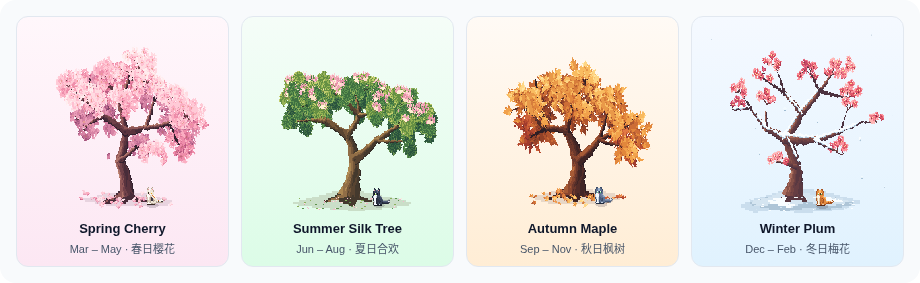
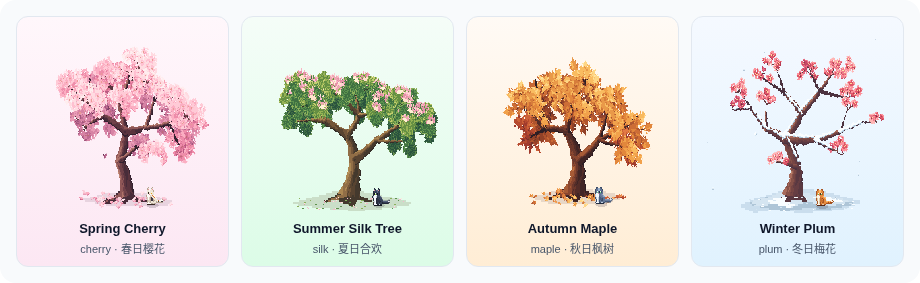
refactor: remove hemisphere-biased auto-season tree mode and default to maple

diff --git a/demo/main.js b/demo/main.js
@@ -2,7 +2,6 @@ import {
   CAT_BREEDS,
   mountCanopyCat,
   paintCatPreview,
-  resolveAutoTree,
   TREE_TYPES,
   WEATHER_PRESETS,
 } from '../src/index.js';
@@ -10,7 +9,7 @@ import {
 const state = {
   lang: navigator.language?.toLowerCase().startsWith('zh') ? 'zh' : 'en',
   theme: 'light',
-  tree: 'auto',
+  tree: 'maple',
   cat: 'auto',
   weather: 'breezy',
   size: 170,
@@ -78,10 +77,9 @@ const instance = mountCanopyCat('#stageMount', {
 });
 
 function buildEmbedCode() {
-  const attrs = [];
-  if (state.tree !== 'auto') attrs.push(`tree="${state.tree}"`);
-  else attrs.push('tree="auto"');
+  const attrs = [`tree="${state.tree}"`];
   if (state.cat !== 'auto') attrs.push(`cat="${state.cat}"`);
+  else attrs.push('cat="auto"');
   if (state.weather !== 'breezy') attrs.push(`weather="${state.weather}"`);
   if (state.size !== 150) attrs.push(`size="${state.size}"`);
   if (state.lang === 'zh') attrs.push('lang="zh"');
@@ -124,20 +122,17 @@ function renderUI() {
   document.getElementById('langBtn').textContent = state.lang === 'en' ? '中文' : 'English';
   document.getElementById('themeBtn').textContent = state.theme === 'light' ? '🌙 Dark' : '☀ Light';
 
-  const autoSeason = resolveAutoTree();
   const statusEl = document.getElementById('statusText');
-  const resolvedTreeKey = state.tree === 'auto' ? autoSeason : state.tree;
-  statusEl.textContent = `${TREE_TYPES[resolvedTreeKey][state.lang]} · ${WEATHER_PRESETS[state.weather].label[state.lang]}`;
+  statusEl.textContent = `${TREE_TYPES[state.tree][state.lang]} · ${WEATHER_PRESETS[state.weather].label[state.lang]}`;
 
   // Seasons
   const seasonGrid = document.getElementById('seasonGrid');
   seasonGrid.innerHTML = '';
   const seasonMeta = [
-    ['auto', '🗓', state.lang === 'zh' ? '自动' : 'Auto', TREE_TYPES[autoSeason][state.lang]],
-    ['cherry', '🌸', state.lang === 'zh' ? '春樱' : 'Cherry', state.lang === 'zh' ? '3–5月' : 'Spring'],
-    ['silk', '🌺', state.lang === 'zh' ? '夏合欢' : 'Silk', state.lang === 'zh' ? '6–8月' : 'Summer'],
-    ['maple', '🍁', state.lang === 'zh' ? '秋枫' : 'Maple', state.lang === 'zh' ? '9–11月' : 'Autumn'],
-    ['plum', '❄', state.lang === 'zh' ? '冬梅' : 'Plum', state.lang === 'zh' ? '12–2月' : 'Winter'],
+    ['cherry', '🌸', state.lang === 'zh' ? '春樱' : 'Cherry', state.lang === 'zh' ? '春' : 'Spring'],
+    ['silk', '🌺', state.lang === 'zh' ? '夏合欢' : 'Silk', state.lang === 'zh' ? '夏' : 'Summer'],
+    ['maple', '🍁', state.lang === 'zh' ? '秋枫' : 'Maple', state.lang === 'zh' ? '秋' : 'Autumn'],
+    ['plum', '❄', state.lang === 'zh' ? '冬梅' : 'Plum', state.lang === 'zh' ? '冬' : 'Winter'],
   ];
   for (const [key, icon, name, sub] of seasonMeta) {
     const btn = document.createElement('button');

diff --git a/src/core/presets.js b/src/core/presets.js
@@ -12,7 +12,6 @@ export const TREE_ARTWORKS = {
 };
 
 export const TREE_TYPES = {
-  auto: { en: 'Auto (by season)', zh: '随季节自动' },
   cherry: { en: 'Spring cherry', zh: '春日樱花' },
   silk: { en: 'Summer silk tree', zh: '夏日合欢' },
   maple: { en: 'Autumn maple', zh: '秋日枫树' },
@@ -89,23 +88,8 @@ export const RANGES = {
   speed: { min: 0, max: 100, initial: 34, step: 1 },
 };
 
-/**
- * Resolve the seasonal tree for a calendar date (Northern Hemisphere default):
- * Mar–May -> cherry, Jun–Aug -> silk, Sep–Nov -> maple, Dec–Feb -> plum.
- */
-export function resolveAutoTree(date = new Date()) {
-  const month = date.getMonth(); // 0..11
-  if (month >= 2 && month <= 4) return 'cherry';
-  if (month >= 5 && month <= 7) return 'silk';
-  if (month >= 8 && month <= 10) return 'maple';
-  return 'plum';
-}
-
-export function resolveTreeKey(tree = 'auto', date = new Date()) {
-  if (tree === 'auto' || !Object.hasOwn(TREE_STYLES, tree)) {
-    return resolveAutoTree(date);
-  }
-  return tree;
+export function resolveTreeKey(tree = 'maple') {
+  return Object.hasOwn(TREE_STYLES, tree) ? tree : 'maple';
 }
 
 export function normalizeOptions(input = {}) {
@@ -117,7 +101,7 @@ export function normalizeOptions(input = {}) {
     return Math.max(min, Math.min(max, Math.round(n / step) * step));
   };
   return {
-    tree: Object.hasOwn(TREE_TYPES, input.tree) ? input.tree : 'auto',
+    tree: Object.hasOwn(TREE_TYPES, input.tree) ? input.tree : 'maple',
     cat: Object.hasOwn(CAT_TYPES, input.cat) ? input.cat : 'auto',
     weather,
     direction: input.direction === 'left' ? 'left' : 'right',

diff --git a/src/panel.js b/src/panel.js
@@ -322,14 +322,6 @@ export function createSettingsPanel(doc, { getOptions, update, reset, regrow, on
     const recCatLabel = CAT_BREEDS[recCatKey]?.label;
     const resolvedCat = opts.cat === 'none' ? null : opts.cat === 'auto' ? recCatKey : opts.cat;
 
-    const autoTreeLabel = TREE_TYPES[resolvedTree];
-    const treeOptions = {
-      ...TREE_TYPES,
-      auto: {
-        en: `Auto (${autoTreeLabel.en})`,
-        zh: `随季节自动（${autoTreeLabel.zh}）`,
-      },
-    };
     const catOptions = {
       ...CAT_TYPES,
       auto: recCatLabel
@@ -454,7 +446,7 @@ export function createSettingsPanel(doc, { getOptions, update, reset, regrow, on
     body.appendChild(makeGroup(
       { en: 'Scene & companion', zh: '场景与伴侣' },
       [
-        makeSelect({ en: 'Tree', zh: '树种' }, opts.tree, treeOptions, tree => update({ tree })),
+        makeSelect({ en: 'Tree', zh: '树种' }, opts.tree, TREE_TYPES, tree => update({ tree })),
         makeSelect({ en: 'Cat', zh: '小猫' }, opts.cat, catOptions, cat => update({ cat }), { trailing: previewBadge }),
         makeRange({ en: 'Tree size', zh: '树木大小' }, opts.size, RANGES.size, size => update({ size }), { full: true }),
       ],

diff --git a/src/index.d.ts b/src/index.d.ts
@@ -1,5 +1,5 @@
-export type TreeOption = 'auto' | 'cherry' | 'silk' | 'maple' | 'plum';
-export type ResolvedTree = 'cherry' | 'silk' | 'maple' | 'plum';
+export type TreeOption = 'cherry' | 'silk' | 'maple' | 'plum';
+export type ResolvedTree = TreeOption;
 export type CatOption =
   | 'auto'
   | 'none'
@@ -49,8 +49,7 @@ export interface CanopyCatInstance {
 
 export declare function mountCanopyCat(target: Element | string, options?: CanopyCatOptions): CanopyCatInstance;
 export declare function defineCanopyCatElement(tagName?: string): void;
-export declare function resolveAutoTree(date?: Date): ResolvedTree;
-export declare function resolveTreeKey(tree?: TreeOption, date?: Date): ResolvedTree;
+export declare function resolveTreeKey(tree?: TreeOption): ResolvedTree;
 export declare function paintCatPreview(canvas: HTMLCanvasElement, breedKey: Exclude<CatOption, 'auto' | 'none'>): void;
 export declare const CAT_BREED_KEYS: readonly Exclude<CatOption, 'auto' | 'none'>[];
 export declare const CAT_BREEDS: Record<string, { label: { en: string; zh: string }; recommendedFor: ResolvedTree | null }>;

diff --git a/src/react.jsx b/src/react.jsx
@@ -3,7 +3,7 @@ import { mountCanopyCat } from './mount.js';
 
 export const CanopyCat = forwardRef(function CanopyCat(
   {
-    tree = 'auto',
+    tree = 'maple',
     cat = 'auto',
     weather = 'breezy',
     direction = 'right',

diff --git a/demo/index.html b/demo/index.html
@@ -183,7 +183,7 @@
     }
     .season-grid {
       display: grid;
-      grid-template-columns: repeat(5, minmax(0, 1fr));
+      grid-template-columns: repeat(4, minmax(0, 1fr));
       gap: 6px;
     }
     .season-btn {

diff --git a/src/index.js b/src/index.js
@@ -4,7 +4,6 @@ export {
   CAT_TYPES,
   GUST_OPTIONS,
   RANGES,
-  resolveAutoTree,
   resolveTreeKey,
   TREE_ARTWORKS,
   TREE_STYLES,

diff --git a/README.md b/README.md
@@ -37,7 +37,7 @@
 ## Highlights
 
 - **Zero runtime dependencies** — pure HTML5 Canvas & procedural pixel art (~35 kB gzipped).
-- **4 seasonal trees with calendar auto-switching** — `tree="auto"` automatically adapts to Spring Cherry, Summer Silk, Autumn Maple, or Winter Plum based on the current month.
+- **4 hand-crafted seasonal trees** — switch freely between Spring Cherry, Summer Silk, Autumn Maple, and Winter Plum, each with bespoke foliage, petals, blooms, or snowfall.
 - **8 hand-crafted pixel cat breeds** — 24 animation frames (`30×26` px), freely combinable with any tree, plus `cat="auto"` for high-contrast seasonal pairing.
 - **Quietly alive, never distracting** — tuned for always-on websites (~88% calm resting/napping/loafing, cooldown-gated actions, paused automatically when off-screen or when `prefers-reduced-motion` is enabled).
 - **Delightful micro-interactions**:
@@ -55,12 +55,12 @@
   <img src="./docs/assets/seasons.png" alt="Four Seasonal Trees" width="880" />
 </div>
 
-| Key | Season | Months (`tree="auto"`) | Auto-Paired Cat | Signature Detail |
-| --- | --- | --- | --- | --- |
-| `cherry` | Spring Cherry | Mar – May | Calico | Drifting pink cherry petals |
-| `silk` | Summer Silk Tree | Jun – Aug | Tuxedo | Floating silky pink-white blooms |
-| `maple` | Autumn Maple | Sep – Nov | Russian Blue-White | Multi-tone crimson & gold falling leaves |
-| `plum` | Winter Plum | Dec – Feb | Ginger Tabby | Snowfall & layered branch snow under perched cats |
+| Key | Tree | Auto-Paired Cat | Signature Detail |
+| --- | --- | --- | --- |
+| `cherry` | Spring Cherry | Calico | Drifting pink cherry petals |
+| `silk` | Summer Silk Tree | Tuxedo | Floating silky pink-white blooms |
+| `maple` | Autumn Maple *(default)* | Russian Blue-White | Multi-tone crimson & gold falling leaves |
+| `plum` | Winter Plum | Ginger Tabby | Snowfall & layered branch snow under perched cats |
 
 ---
 
@@ -81,7 +81,7 @@ Use `cat="auto"` (default) to pair a complementary breed with each tree, `cat="n
 
 ```html
 <script type="module" src="https://unpkg.com/canopy-cat/dist/canopy-cat.js"></script>
-<canopy-cat tree="auto" cat="auto" weather="breezy"></canopy-cat>
+<canopy-cat tree="maple" cat="auto" weather="breezy"></canopy-cat>
 ```
 
 ### 2. Vanilla JS / TypeScript (Vue, Svelte, Astro, VitePress, etc.)
@@ -94,7 +94,7 @@ npm install canopy-cat
 import { mountCanopyCat } from 'canopy-cat';
 
 const companion = mountCanopyCat(document.body, {
-  tree: 'auto',      // 'auto' | 'cherry' | 'silk' | 'maple' | 'plum'
+  tree: 'maple',     // 'cherry' | 'silk' | 'maple' | 'plum'
   cat: 'auto',       // 'auto' | 'none' | breed key
   weather: 'breezy', // 'calm' | 'breezy' | 'storm'
   position: 'bottom-right',
@@ -113,7 +113,7 @@ companion.regrow();                 // regrow fallen foliage
 import { CanopyCat } from 'canopy-cat/react';
 
 export function App() {
-  return <CanopyCat tree="auto" cat="auto" weather="breezy" persist />;
+  return <CanopyCat tree="maple" cat="auto" weather="breezy" persist />;
 }
 ```
 
@@ -123,7 +123,7 @@ export function App() {
 
 | JS Option | HTML Attribute | Default | Values |
 | --- | --- | --- | --- |
-| `tree` | `tree` | `'auto'` | `'auto'`, `'cherry'`, `'silk'`, `'maple'`, `'plum'` |
+| `tree` | `tree` | `'maple'` | `'cherry'`, `'silk'`, `'maple'`, `'plum'` |
 | `cat` | `cat` | `'auto'` | `'auto'`, `'none'`, `'russian-blue'`, `'calico'`, `'tuxedo'`, `'ginger'`, `'silver-tabby'`, `'ragdoll'`, `'american-curl'`, `'orange-rex'` |
 | `weather` | `weather` | `'breezy'` | `'calm'`, `'breezy'`, `'storm'` |
 | `direction` | `wind-direction` | `'right'` | `'left'`, `'right'` |

diff --git a/README.zh-CN.md b/README.zh-CN.md
@@ -37,7 +37,7 @@
 ## 项目亮点
 
 - **零运行时依赖**：纯 HTML5 Canvas 与程序化像素绘制，压缩后仅约 35 kB。
-- **四棵四季树 + 按月份自动换季**：设置 `tree="auto"` 后，会根据访客当前真实月份自动切换春樱、夏合欢、秋枫、冬梅。
+- **四棵手绘四季树**：春樱、夏合欢、秋枫、冬梅自由切换，各自拥有独立的枝叶、花瓣、绒絮或飘雪积雪细节。
 - **8 款手绘像素猫**：24 帧 `30×26` 动作图集，与任意季节树自由混搭，默认 `cat="auto"` 按树种自动推荐高对比度配色。
 - **生动而不打扰的常驻节律**：约 88% 时间静静趴睡、揣手或打盹，动作带防重复冷却；离开视口、切后台或开启系统「减弱动态效果」时自动暂停，几乎零负担。
 - **丰富的微交互彩蛋**：
@@ -55,12 +55,12 @@
   <img src="./docs/assets/seasons.png" alt="四棵四季树" width="880" />
 </div>
 
-| 标识 | 树种 | 自动换季月份（`tree="auto"`） | 随树推荐猫 | 特色细节 |
-| --- | --- | --- | --- | --- |
-| `cherry` | 春日樱花 | 3 – 5 月 | 三花猫 | 飘落樱花瓣 |
-| `silk` | 夏日合欢 | 6 – 8 月 | 燕尾服黑猫 | 随风轻舞的绒花絮 |
-| `maple` | 秋日枫树 | 9 – 11 月 | 蓝白英短 | 多层金红枫叶飘落 |
-| `plum` | 冬日梅花 | 12 – 2 月 | 暖橘虎斑 | 飘雪与枝头积雪分层（不遮挡枝头小猫） |
+| 标识 | 树种 | 随树推荐猫 | 特色细节 |
+| --- | --- | --- | --- |
+| `cherry` | 春日樱花 | 三花猫 | 飘落樱花瓣 |
+| `silk` | 夏日合欢 | 燕尾服黑猫 | 随风轻舞的绒花絮 |
+| `maple` | 秋日枫树 *（默认）* | 蓝白英短 | 多层金红枫叶飘落 |
+| `plum` | 冬日梅花 | 暖橘虎斑 | 飘雪与枝头积雪分层（不遮挡枝头小猫） |
 
 ---
 
@@ -81,7 +81,7 @@
 
 ```html
 <script type="module" src="https://unpkg.com/canopy-cat/dist/canopy-cat.js"></script>
-<canopy-cat tree="auto" cat="auto" weather="breezy" lang="zh"></canopy-cat>
+<canopy-cat tree="maple" cat="auto" weather="breezy" lang="zh"></canopy-cat>
 ```
 
 ### 2. 原生 JS / TypeScript（Vue、Svelte、Astro 等任意前端项目）
@@ -94,7 +94,7 @@ npm install canopy-cat
 import { mountCanopyCat } from 'canopy-cat';
 
 const companion = mountCanopyCat(document.body, {
-  tree: 'auto',       // 'auto' | 'cherry' | 'silk' | 'maple' | 'plum'
+  tree: 'maple',      // 'cherry' | 'silk' | 'maple' | 'plum'
   cat: 'auto',        // 'auto' | 'none' | 任意花色 key
   weather: 'breezy',  // 'calm' | 'breezy' | 'storm'
   lang: 'zh',
@@ -114,7 +114,7 @@ companion.regrow();                 // 让枝叶重新长回
 import { CanopyCat } from 'canopy-cat/react';
 
 export function App() {
-  return <CanopyCat tree="auto" cat="auto" weather="breezy" lang="zh" persist />;
+  return <CanopyCat tree="maple" cat="auto" weather="breezy" lang="zh" persist />;
 }
 ```
 
@@ -124,7 +124,7 @@ export function App() {
 
 | JS 参数 | HTML 属性 | 默认值 | 可选值 |
 | --- | --- | --- | --- |
-| `tree` | `tree` | `'auto'` | `'auto'`, `'cherry'`, `'silk'`, `'maple'`, `'plum'` |
+| `tree` | `tree` | `'maple'` | `'cherry'`, `'silk'`, `'maple'`, `'plum'` |
 | `cat` | `cat` | `'auto'` | `'auto'`, `'none'`, `'russian-blue'`, `'calico'`, `'tuxedo'`, `'ginger'`, `'silver-tabby'`, `'ragdoll'`, `'american-curl'`, `'orange-rex'` |
 | `weather` | `weather` | `'breezy'` | `'calm'`, `'breezy'`, `'storm'` |
 | `direction` | `wind-direction` | `'right'` | `'left'`, `'right'` |
